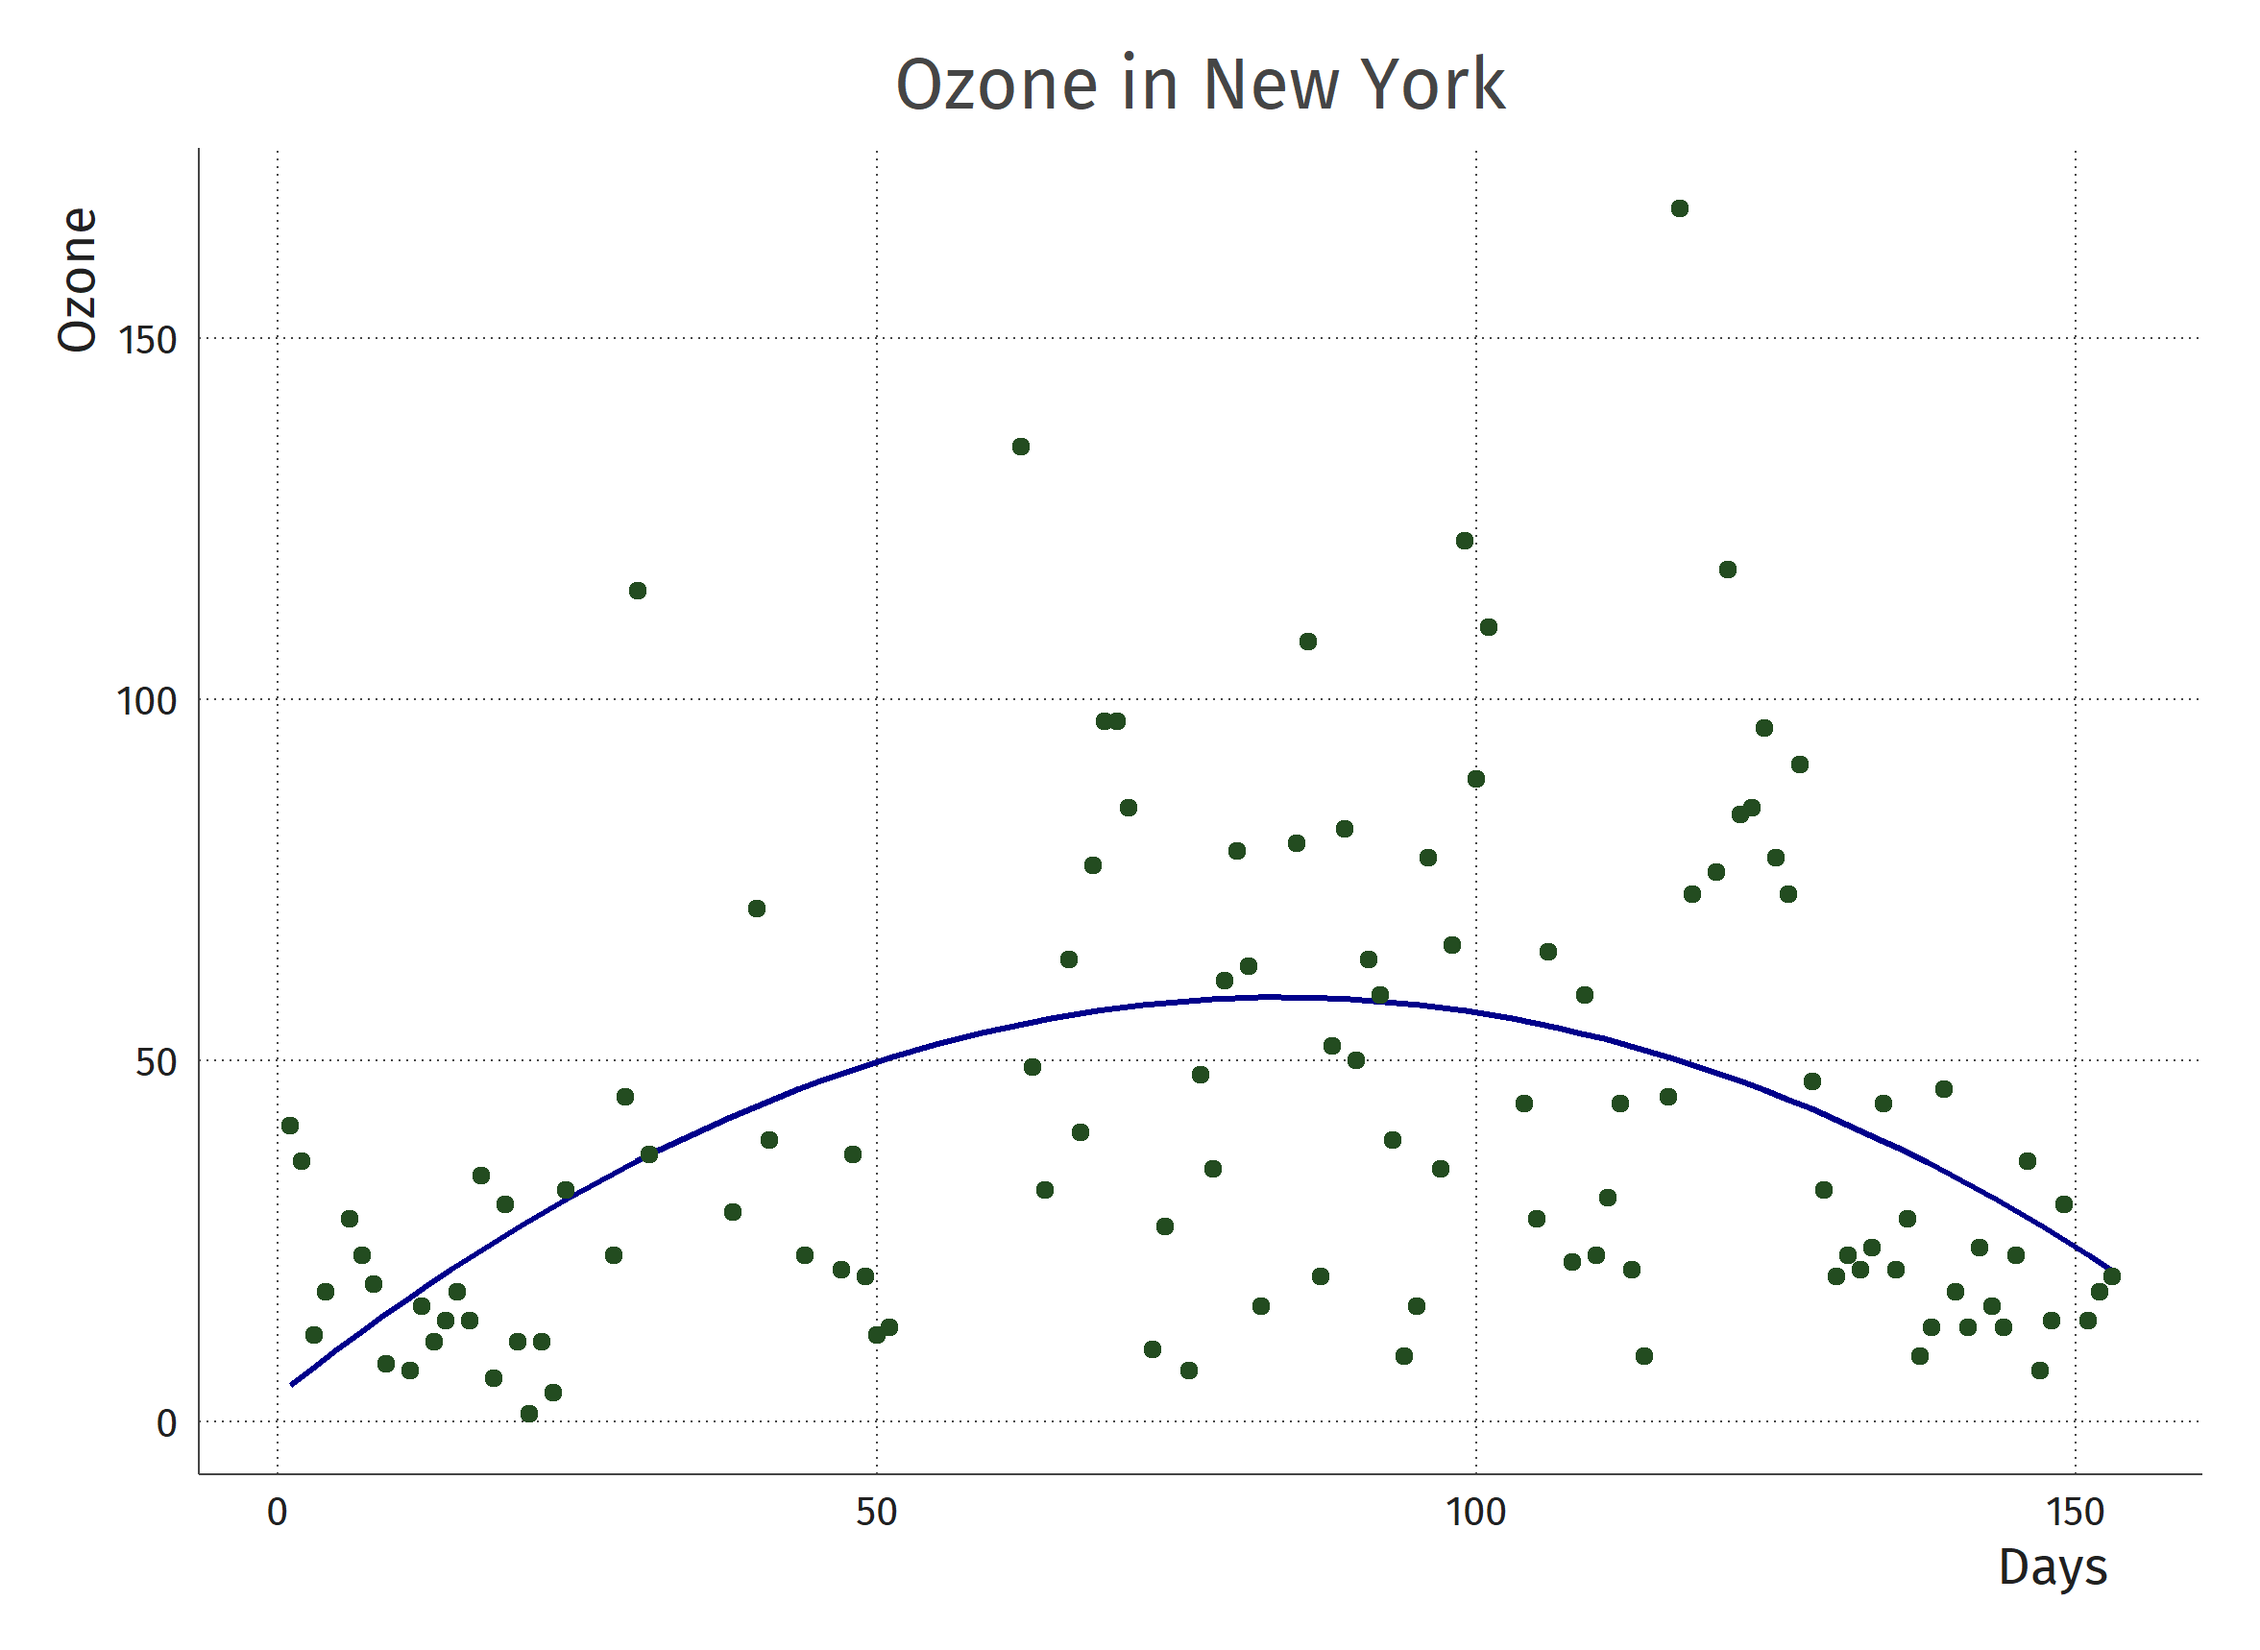
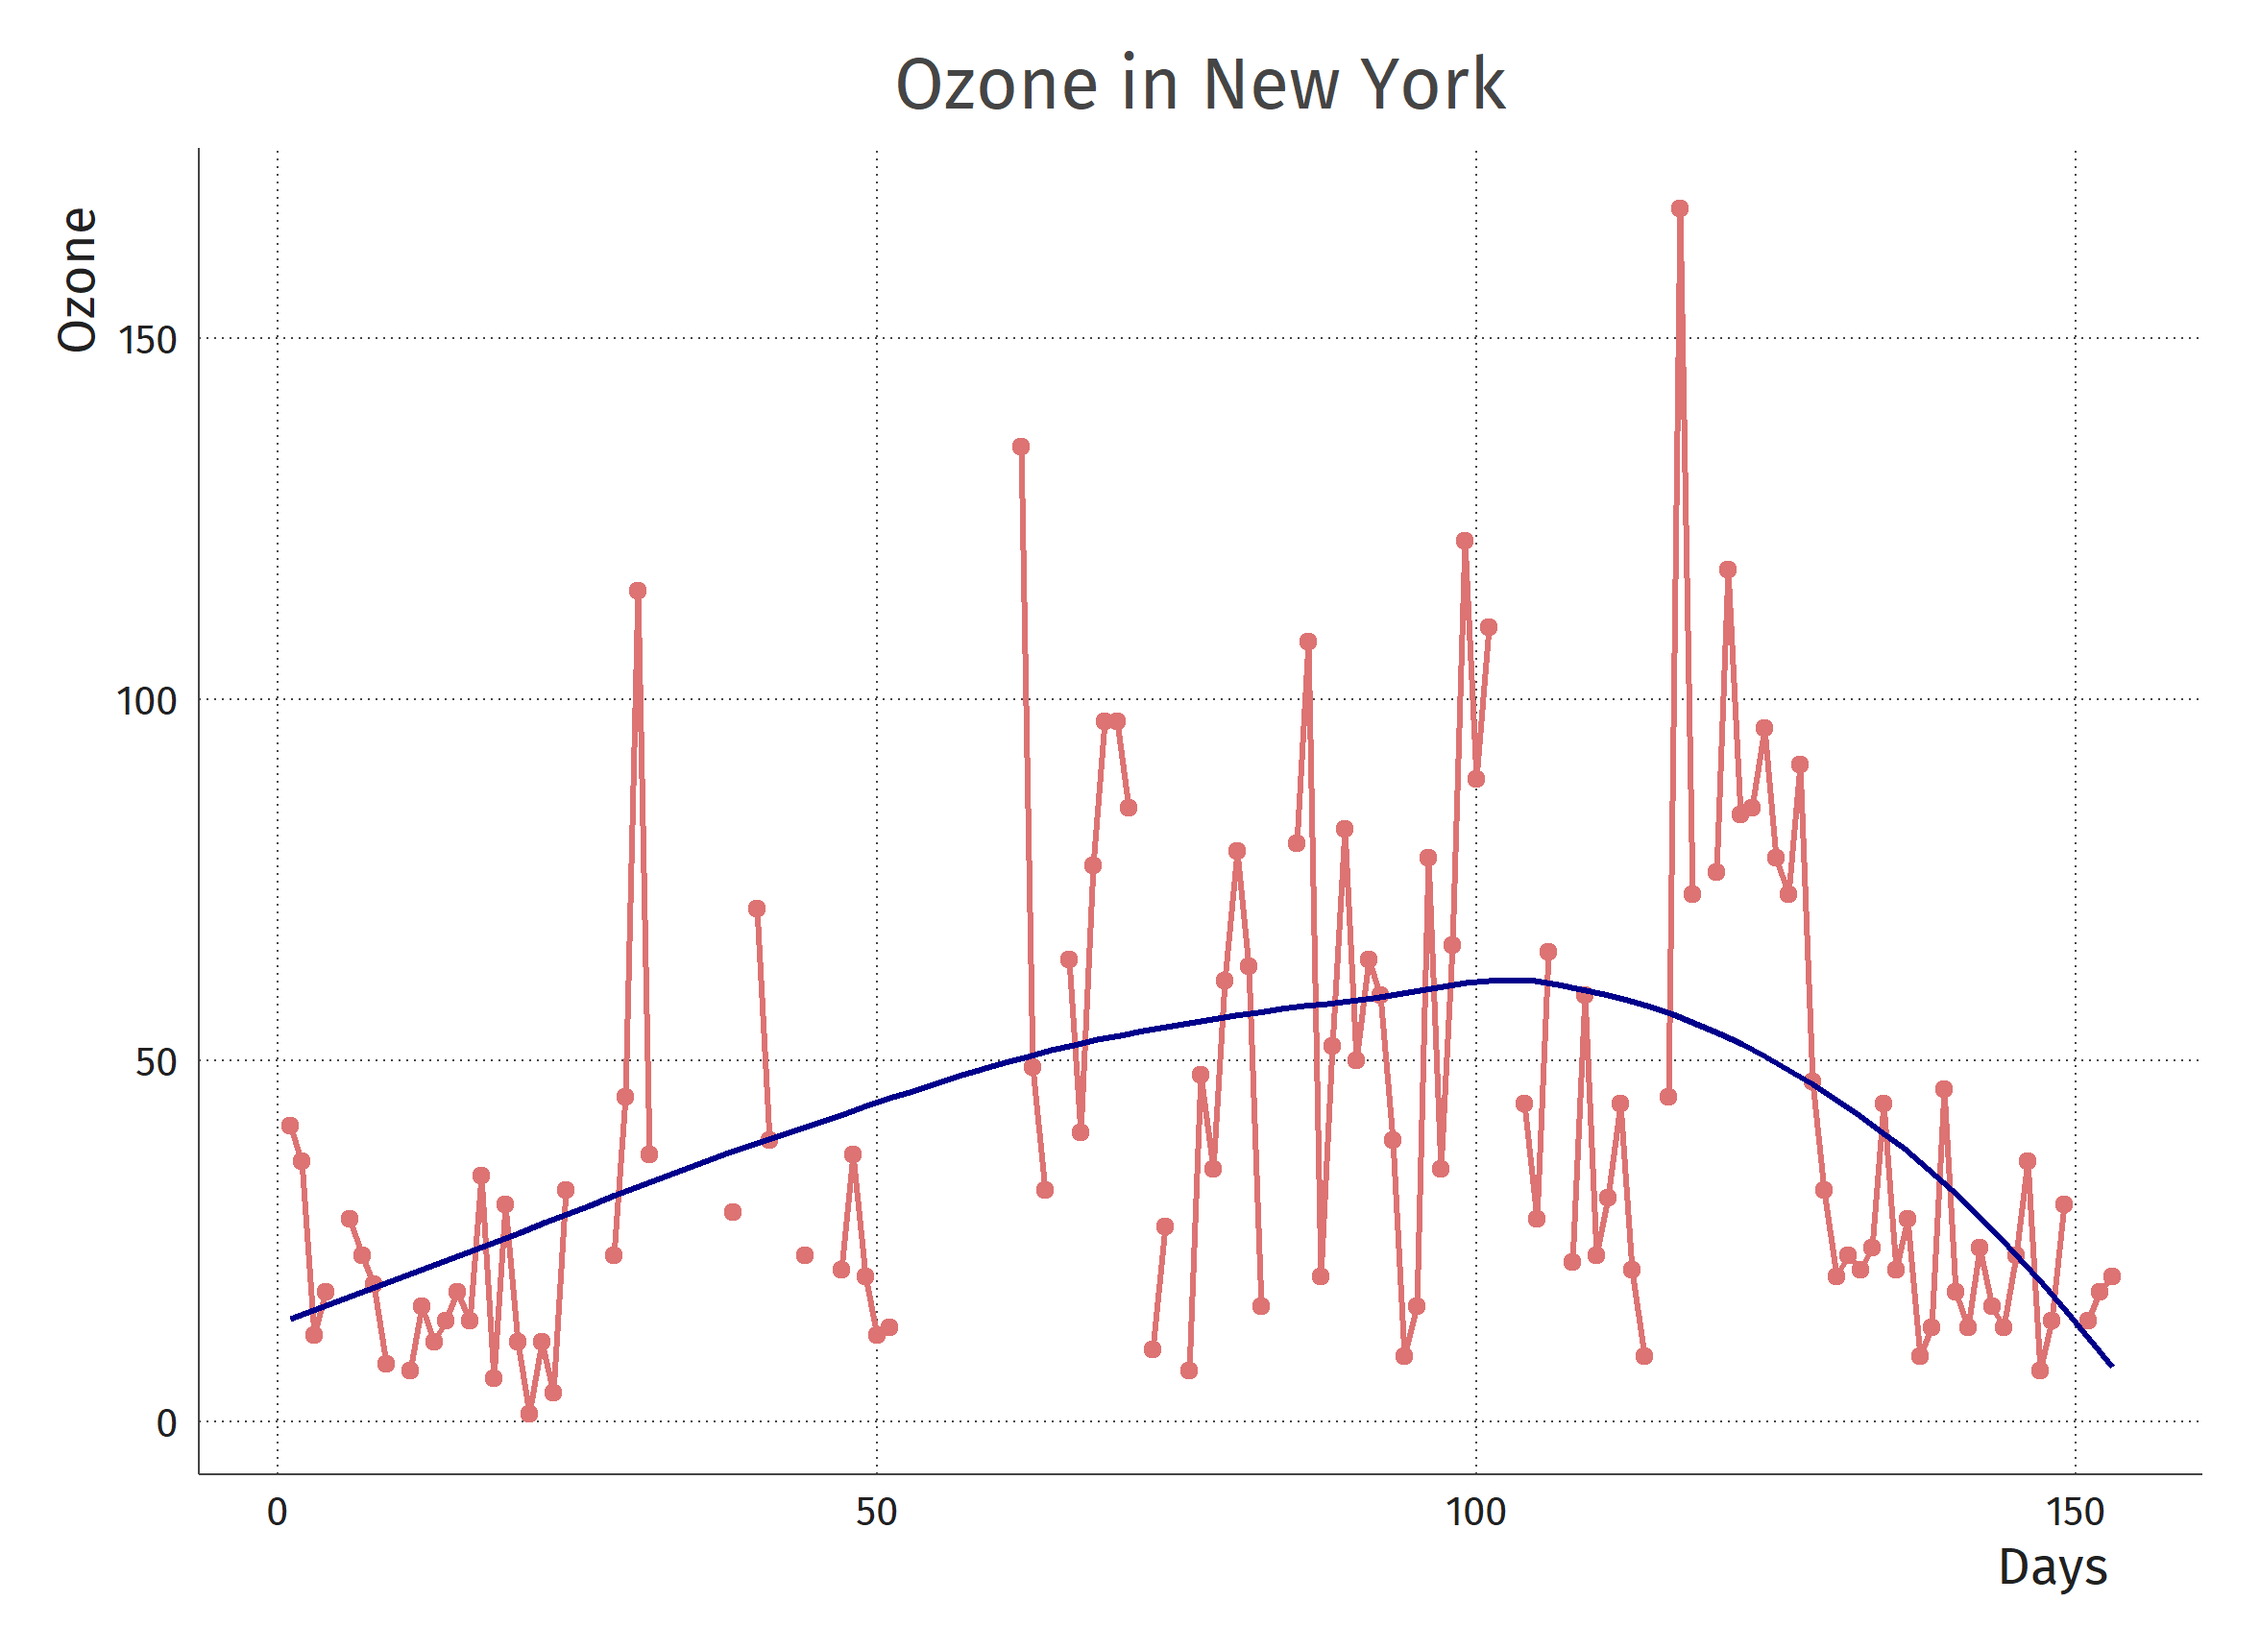
Update Ozone image

diff --git a/README.md b/README.md
@@ -30,9 +30,9 @@ ggplot(chickwts, aes(x = feed, y = weight)) +
 
 ```R
 ggplot(airquality, aes(y = Ozone, x = 1:nrow(airquality))) + 
-  geom_smooth(colour = ejCols[1], size = 0.7, method = "gam", 
-              formula = y ~ poly(x, 2), se = FALSE) + 
-  geom_point(colour = ejCols[4], size = 1.7) + 
+  geom_line(colour = ejCols[2], size = 0.7) + 
+  geom_point(colour = ejCols[2], size = 1.7) + 
+  geom_smooth(colour = ejCols[1], size = 0.7,se = FALSE) + 
   labs(title = "Ozone in New York", x = "Days") + 
   theme_fira()
 ```
